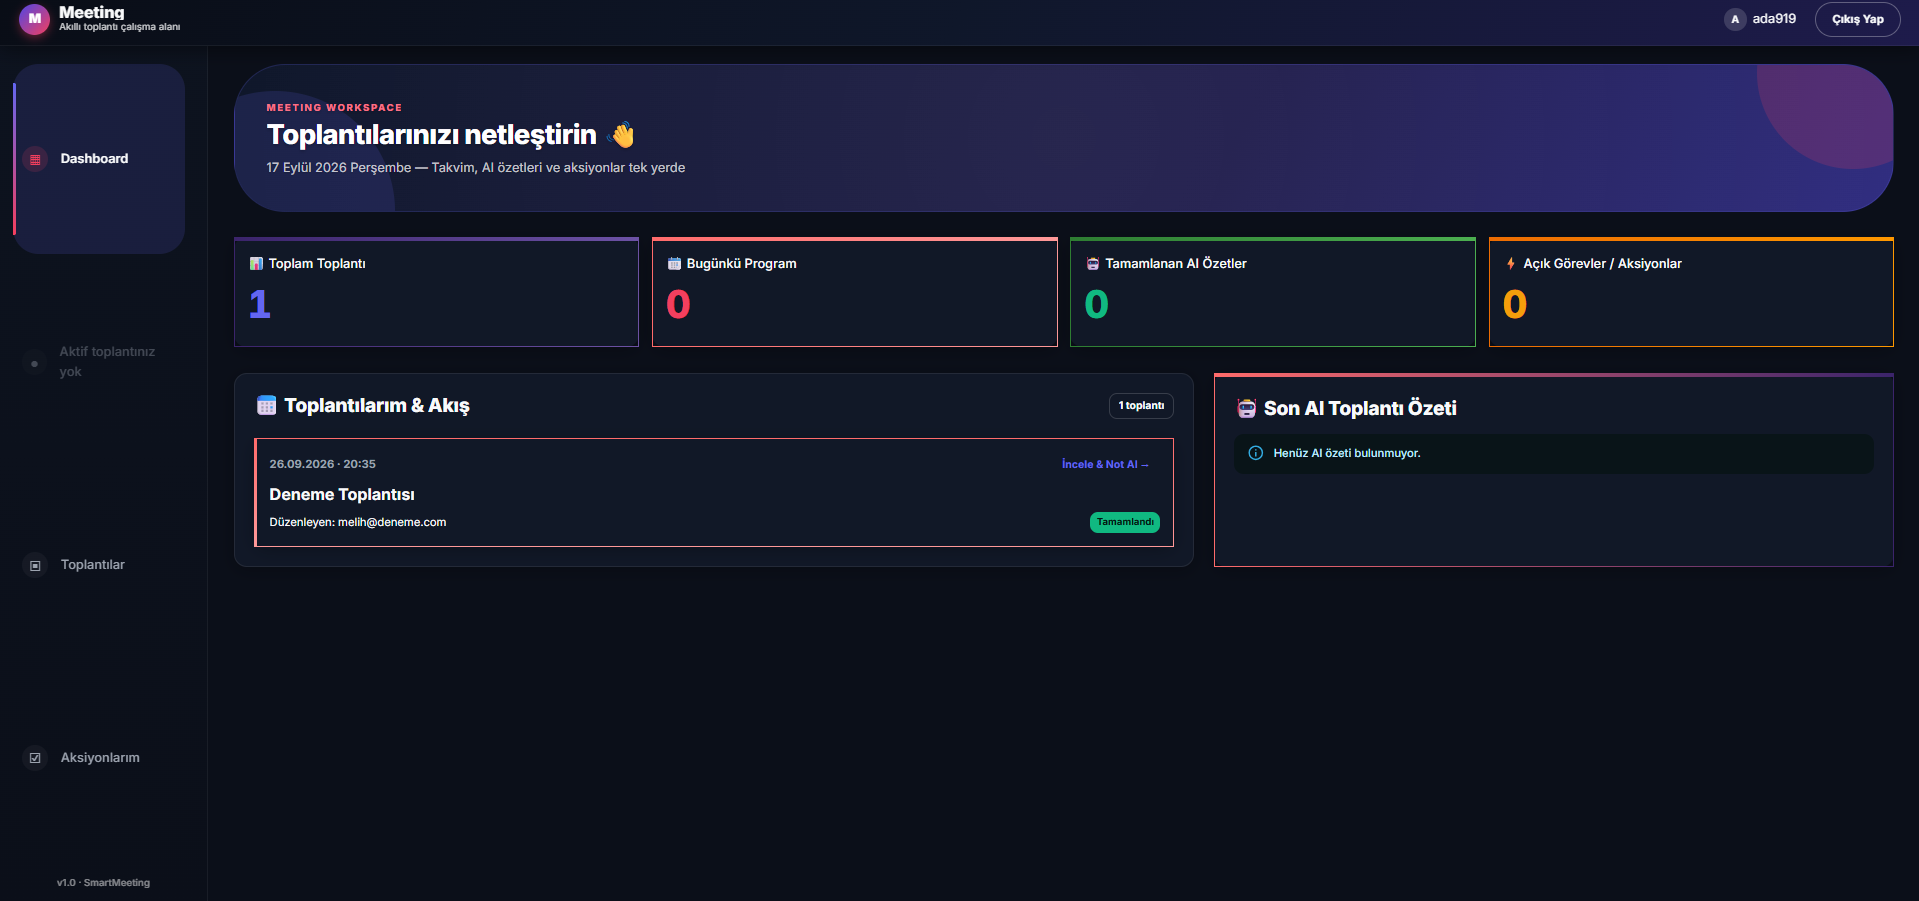
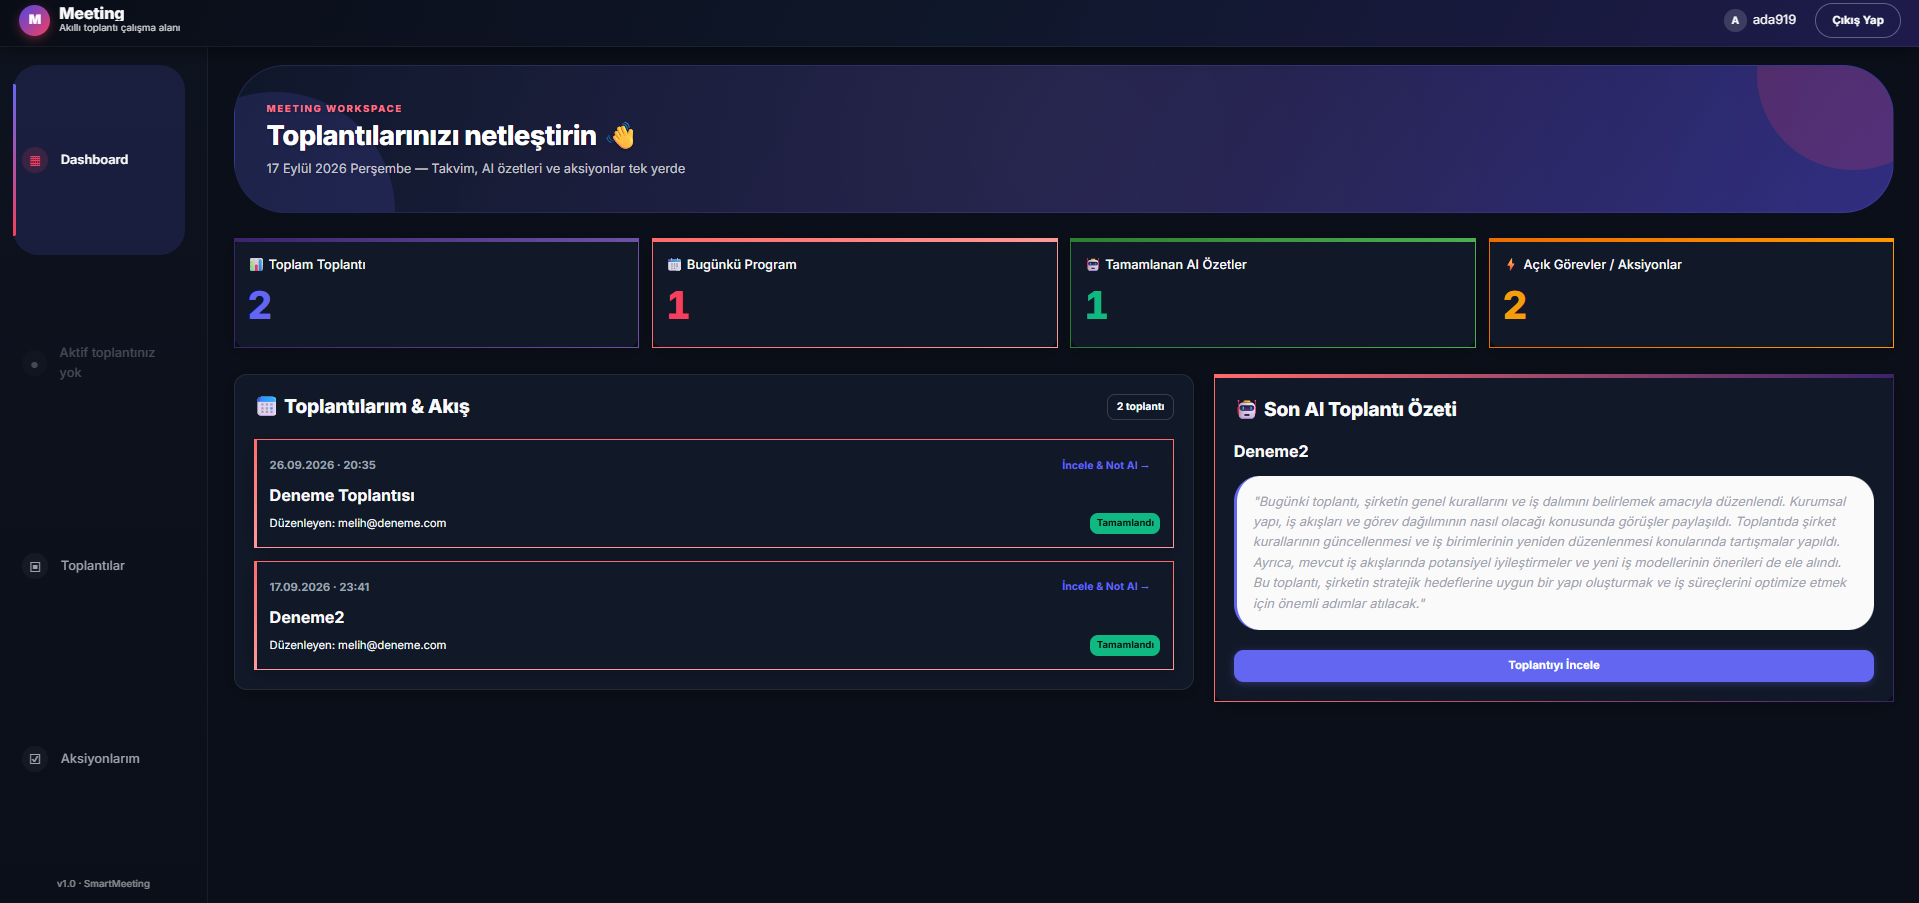
docs: refresh README screenshots and organizer display

diff --git a/web/src/features/meeting-room/MeetingDetailPage.tsx b/web/src/features/meeting-room/MeetingDetailPage.tsx
@@ -97,6 +97,7 @@ export function MeetingDetailPage({ meeting, currentUserId, canCompleteMeeting, 
   const isRoomManager = canCompleteMeeting || isOrganizer || meeting.participants.some((participant) => participant.userId === currentUserId && participant.canManageMeeting)
   const isCompleted = statusKey === '6'
   const actionParticipants: Participant[] = [{ id: meeting.id, userId: meeting.organizerId, displayName: meeting.organizerEmail ?? 'Toplantı yöneticisi', email: meeting.organizerEmail ?? 'organizer@meeting.local', canManageMeeting: true, speakerLabel: null, speakerMappingStatus: 'None' as const, speakerConfidence: null }, ...meeting.participants].filter((participant, index, all) => all.findIndex((item) => item.userId === participant.userId) === index)
+  const emailParticipants: Participant[] = [{ id: meeting.id, userId: meeting.organizerId, displayName: 'Toplantıyı kuran', email: meeting.organizerEmail ?? 'organizer@meeting.local', canManageMeeting: true, speakerLabel: null, speakerMappingStatus: 'None' as const, speakerConfidence: null }, ...meeting.participants].filter((participant, index, all) => all.findIndex((item) => item.userId === participant.userId) === index)
   return <Stack spacing={4}>
     {(!roomPresence.isInRoom || isCompleted) && <Typography variant="h3" sx={{ fontWeight: 800 }}>{meeting.title}</Typography>}
     {roomPresence.isInRoom && !isCompleted && <Card sx={{ background: 'linear-gradient(135deg, #1E1B4B 0%, #0F172A 60%, #111827 100%)', border: '1px solid rgba(99, 102, 241, 0.25)', color: 'text.primary', position: 'relative', overflow: 'hidden' }}><Box sx={{ position: 'absolute', top: -50, right: -50, width: 200, height: 200, borderRadius: '50%', background: 'radial-gradient(circle, rgba(244,63,94,0.25) 0%, rgba(99,102,241,0) 70%)', pointerEvents: 'none' }} /><CardContent sx={{ p: { xs: 2.5, md: 3 }, position: 'relative', zIndex: 1 }}><Stack direction={{ xs: 'column', md: 'row' }} sx={{ justifyContent: 'space-between', alignItems: { md: 'center' }, gap: 2.5 }}><Box><Typography variant="h4" sx={{ fontWeight: 800 }}>{meeting.title}</Typography><Typography variant="h6" sx={{ mt: 0.5, color: 'secondary.main', animation: 'sm-pulse 2s infinite' }}>Canlı toplantı ve kayıt</Typography><Typography variant="body2" sx={{ opacity: 0.8, mt: 0.5 }}>{isRoomManager ? 'Oda aktif. Ses kaydını buradan başlatabilir veya durdurabilirsiniz.' : 'Oda aktif. Toplantıyı dinleyebilir ve canlı akışı takip edebilirsiniz.'}</Typography></Box>{isRoomManager ? <Stack direction="row" spacing={2} sx={{ alignItems: 'center' }}><Chip label={recordingDuration} sx={{ color: 'white', bgcolor: 'rgba(255,255,255,0.14)', fontFamily: 'monospace', fontSize: '1.25rem', fontWeight: 700, height: 48, px: 1 }} />{recordingState === 'recording' || recordingState === 'paused' ? <><Button size="large" variant="outlined" color="secondary" disabled={recordingUploading || recordingStarting} onClick={() => window.dispatchEvent(new Event('smartmeeting-recording-pause-toggle'))} sx={{ px: 2.5, py: 1.5, fontWeight: 700 }}>{recordingState === 'recording' ? 'Kaydı duraklat' : 'Kayda devam et'}</Button><Button size="large" variant="contained" color="secondary" disabled={recordingUploading || recordingStarting} onClick={() => window.dispatchEvent(new Event('smartmeeting-recording-stop'))} sx={{ px: 2.5, py: 1.5, fontWeight: 700 }}>Kaydı bitir ve gönder</Button></> : <Button size="large" variant="contained" color="secondary" disabled={recordingUploading || recordingStarting} onClick={() => window.dispatchEvent(new Event('smartmeeting-recording-toggle'))} sx={{ px: 3, py: 1.5, fontWeight: 700 }}>{recordingStarting ? 'Hazırlanıyor…' : recordingUploading ? 'Gönderiliyor…' : 'Kaydı başlat'}</Button>}<Button size="large" color="error" variant="contained" disabled={completingMeeting || statusKey === '1' || statusKey === '2'} onClick={() => { if (window.confirm('Toplantıyı bitirmek istediğinizden emin misiniz? Bu işlemden sonra odaya tekrar girilemez.')) onCompleteMeeting(meeting.id) }}>{completingMeeting ? 'Bitiriliyor…' : 'Toplantıyı bitir'}</Button></Stack> : !isOrganizer && <Button size="large" color="error" variant="contained" disabled={roomPresence.isConnecting} onClick={() => void roomPresence.leaveRoom()}>Odadan çık</Button>}</Stack></CardContent></Card>}
@@ -151,7 +152,7 @@ export function MeetingDetailPage({ meeting, currentUserId, canCompleteMeeting, 
           ].map((panel) => <Card key={panel.key} sx={{ flex: '1 1 210px', minWidth: 190, border: activePanel === panel.key ? 2 : 1, borderColor: activePanel === panel.key ? 'primary.main' : 'divider', position: 'relative', overflow: 'hidden', transition: 'transform 0.2s ease, box-shadow 0.2s ease', '&:hover': { transform: 'translateY(-3px)', boxShadow: (theme) => theme.shadows[4] }, '&::before': { content: '""', position: 'absolute', top: 0, left: 0, right: 0, height: '4px', background: 'linear-gradient(90deg, #6366F1 0%, #F43F5E 100%)', opacity: activePanel === panel.key ? 1 : 0, transition: 'opacity 0.2s ease' } }}><CardActionArea sx={{ height: '100%' }} onClick={() => { setActivePanel(panel.key); setPanelOpen(true) }}><CardContent><Typography variant="subtitle2" color="text.secondary">{panel.label}</Typography><Typography variant="h6" sx={{ mt: 1, fontWeight: 700 }}>{panel.value}</Typography><Typography variant="caption" color="primary" sx={{ display: 'block', mt: 1, fontWeight: 600 }}>Açmak için tıkla →</Typography></CardContent></CardActionArea></Card>)}
         </Stack>
       </Stack>
-      <Stack id="meeting-recording" spacing={3} sx={{ width: { xs: '100%', lg: 440 }, maxWidth: '100%', flexShrink: 0 }}><Card sx={{ overflow: 'visible', border: 1, borderColor: 'divider', bgcolor: 'background.paper', boxShadow: (theme) => theme.shadows[8] }}><CardContent sx={{ p: { xs: 2.5, md: 3 } }}><Stack spacing={2}><Stack direction="row" sx={{ justifyContent: 'space-between', alignItems: 'center', gap: 1 }}><Typography variant="h6" sx={{ fontWeight: 800 }}>Katılımcılar ve e-posta alıcıları</Typography><Chip size="small" label={`${meeting.participants.length} kişi`} color={meeting.participants.length ? 'success' : 'default'} /></Stack><Typography variant="body2" color="text.secondary">Toplantı tamamlandığında AI özeti ve aksiyonlar aşağıdaki kişilere gönderilebilir.</Typography>{meeting.participants.length ? <Stack spacing={1.5}>{meeting.participants.map((participant) => <Stack key={participant.id} direction="row" sx={{ justifyContent: 'space-between', alignItems: 'center', gap: 1.5, p: 1.5, borderRadius: 2, bgcolor: alpha('#FFFFFF', 0.03), transition: 'background-color 0.2s', '&:hover': { bgcolor: alpha('#FFFFFF', 0.06) } }}><Avatar sx={{ width: 36, height: 36, fontSize: '1rem', bgcolor: alpha('#6366F1', 0.2), color: 'primary.light', fontWeight: 700 }}>{participant.displayName.charAt(0).toUpperCase()}</Avatar><Box sx={{ minWidth: 0, flex: 1 }}><Typography variant="body2" sx={{ fontWeight: 700, overflowWrap: 'anywhere' }}>{participant.displayName}</Typography><Typography variant="caption" color="text.secondary" sx={{ overflowWrap: 'anywhere' }}>{participant.email}</Typography></Box><Chip size="small" variant={participant.canManageMeeting ? 'filled' : 'outlined'} color={participant.canManageMeeting ? 'primary' : 'default'} label={participant.canManageMeeting ? 'Yönetici' : 'Katılımcı'} sx={{ fontWeight: 600 }} /></Stack>)}</Stack> : <Alert severity="info" sx={{ borderRadius: 2 }}>Henüz katılımcı eklenmedi.</Alert>}{isOrganizer && <Button fullWidth variant="outlined" sx={{ py: 1.5, fontWeight: 700 }} onClick={() => { setActivePanel('participants'); setPanelOpen(true) }}>Katılımcı ekle ve yetkiyi düzenle</Button>}{isRoomManager && <IconButton aria-label="Transkript ve AI özetini e-posta ile gönder" title="Transkript ve AI özetini e-posta ile gönder" color="secondary" disabled={!meeting.transcript || !meeting.summary || !meeting.participants.length || sendingEmail} onClick={() => onSendEmail(meeting.id)} sx={{ alignSelf: 'flex-end' }}>{sendingEmail ? '…' : '✉'}</IconButton>}</Stack></CardContent></Card>{roomPresence.isInRoom && isRoomManager && <AudioRecorderCard meetings={[meeting]} selectedMeetingId={meeting.id} onMeetingChange={() => undefined} onRecordingStart={onRecordingStart} onAudioReady={(audio) => onAudioReady(meeting.id, audio)} onSaveNotes={onSaveNotes} uploading={recordingUploading} starting={recordingStarting} savingNotes={savingNotes} fixedMeeting={meeting} canRecord onRecordingStateChange={setRecordingState} onRecordingDurationChange={setRecordingDuration} hideActionButton compact />}{roomPresence.isInRoom && !isRoomManager && <Card sx={{ borderRadius: 4 }}><CardContent><Stack spacing={2} sx={{ p: 2.5, borderRadius: 4, background: (theme) => `linear-gradient(${theme.palette.background.paper}, ${theme.palette.background.paper}) padding-box, linear-gradient(135deg, ${alpha(theme.palette.primary.main, 0.4)}, ${alpha(theme.palette.secondary.main, 0.4)}) border-box`, border: '2px solid transparent' }}><Typography variant="h6" sx={{ fontWeight: 800, color: 'primary.light' }}>Canlı toplantı notları</Typography><TextField fullWidth multiline minRows={5} label="Not ekle" value={participantNotes} onChange={(event) => setParticipantNotes(event.target.value)} placeholder="Toplantı sırasında önemli kararları veya bağlamı yazın..." sx={{ '& .MuiOutlinedInput-root': { borderRadius: 3 } }} /><Button variant="outlined" sx={{ borderRadius: 3, py: 1 }} onClick={() => onSaveNotes(meeting.id, participantNotes)} disabled={!participantNotes.trim() || savingNotes}>{savingNotes ? 'Not kaydediliyor…' : 'Notları kaydet'}</Button><Typography variant="caption" color="text.secondary" sx={{ display: 'block', textAlign: 'center' }}>Bu notlar STT tamamlandıktan sonra AI özetine bağlam olarak dahil edilir.</Typography></Stack></CardContent></Card>}</Stack>
+      <Stack id="meeting-recording" spacing={3} sx={{ width: { xs: '100%', lg: 440 }, maxWidth: '100%', flexShrink: 0 }}><Card sx={{ overflow: 'visible', border: 1, borderColor: 'divider', bgcolor: 'background.paper', boxShadow: (theme) => theme.shadows[8] }}><CardContent sx={{ p: { xs: 2.5, md: 3 } }}><Stack spacing={2}><Stack direction="row" sx={{ justifyContent: 'space-between', alignItems: 'center', gap: 1 }}><Typography variant="h6" sx={{ fontWeight: 800 }}>Katılımcılar ve e-posta alıcıları</Typography><Chip size="small" label={`${emailParticipants.length} kişi`} color={meeting.participants.length ? 'success' : 'default'} /></Stack><Typography variant="body2" color="text.secondary">Toplantı tamamlandığında AI özeti ve aksiyonlar aşağıdaki kişilere gönderilebilir.</Typography>{emailParticipants.length ? <Stack spacing={1.5}>{emailParticipants.map((participant) => <Stack key={participant.id} direction="row" sx={{ justifyContent: 'space-between', alignItems: 'center', gap: 1.5, p: 1.5, borderRadius: 2, bgcolor: alpha('#FFFFFF', 0.03), transition: 'background-color 0.2s', '&:hover': { bgcolor: alpha('#FFFFFF', 0.06) } }}><Avatar sx={{ width: 36, height: 36, fontSize: '1rem', bgcolor: alpha('#6366F1', 0.2), color: 'primary.light', fontWeight: 700 }}>{participant.displayName.charAt(0).toUpperCase()}</Avatar><Box sx={{ minWidth: 0, flex: 1 }}><Typography variant="body2" sx={{ fontWeight: 700, overflowWrap: 'anywhere' }}>{participant.displayName}</Typography><Typography variant="caption" color="text.secondary" sx={{ overflowWrap: 'anywhere' }}>{participant.email}</Typography></Box><Chip size="small" variant={participant.canManageMeeting ? 'filled' : 'outlined'} color={participant.canManageMeeting ? 'primary' : 'default'} label={participant.userId === meeting.organizerId ? 'Toplantıyı kuran' : 'Katılımcı'} sx={{ fontWeight: 600 }} /></Stack>)}</Stack> : <Alert severity="info" sx={{ borderRadius: 2 }}>Henüz katılımcı eklenmedi.</Alert>}{isOrganizer && <Button fullWidth variant="outlined" sx={{ py: 1.5, fontWeight: 700 }} onClick={() => { setActivePanel('participants'); setPanelOpen(true) }}>Katılımcı ekle ve yetkiyi düzenle</Button>}{isRoomManager && <IconButton aria-label="Transkript ve AI özetini e-posta ile gönder" title="Transkript ve AI özetini e-posta ile gönder" color="secondary" disabled={!meeting.transcript || !meeting.summary || !meeting.participants.length || sendingEmail} onClick={() => onSendEmail(meeting.id)} sx={{ alignSelf: 'flex-end' }}>{sendingEmail ? '…' : '✉'}</IconButton>}</Stack></CardContent></Card>{roomPresence.isInRoom && isRoomManager && <AudioRecorderCard meetings={[meeting]} selectedMeetingId={meeting.id} onMeetingChange={() => undefined} onRecordingStart={onRecordingStart} onAudioReady={(audio) => onAudioReady(meeting.id, audio)} onSaveNotes={onSaveNotes} uploading={recordingUploading} starting={recordingStarting} savingNotes={savingNotes} fixedMeeting={meeting} canRecord onRecordingStateChange={setRecordingState} onRecordingDurationChange={setRecordingDuration} hideActionButton compact />}{roomPresence.isInRoom && !isRoomManager && <Card sx={{ borderRadius: 4 }}><CardContent><Stack spacing={2} sx={{ p: 2.5, borderRadius: 4, background: (theme) => `linear-gradient(${theme.palette.background.paper}, ${theme.palette.background.paper}) padding-box, linear-gradient(135deg, ${alpha(theme.palette.primary.main, 0.4)}, ${alpha(theme.palette.secondary.main, 0.4)}) border-box`, border: '2px solid transparent' }}><Typography variant="h6" sx={{ fontWeight: 800, color: 'primary.light' }}>Canlı toplantı notları</Typography><TextField fullWidth multiline minRows={5} label="Not ekle" value={participantNotes} onChange={(event) => setParticipantNotes(event.target.value)} placeholder="Toplantı sırasında önemli kararları veya bağlamı yazın..." sx={{ '& .MuiOutlinedInput-root': { borderRadius: 3 } }} /><Button variant="outlined" sx={{ borderRadius: 3, py: 1 }} onClick={() => onSaveNotes(meeting.id, participantNotes)} disabled={!participantNotes.trim() || savingNotes}>{savingNotes ? 'Not kaydediliyor…' : 'Notları kaydet'}</Button><Typography variant="caption" color="text.secondary" sx={{ display: 'block', textAlign: 'center' }}>Bu notlar STT tamamlandıktan sonra AI özetine bağlam olarak dahil edilir.</Typography></Stack></CardContent></Card>}</Stack>
     </Stack>
     <Dialog open={panelOpen} onClose={() => setPanelOpen(false)} fullWidth maxWidth="lg" slotProps={{ paper: { sx: { borderRadius: 3, overflow: 'hidden' } } }}><DialogTitle sx={{ bgcolor: 'primary.main', color: 'primary.contrastText', pb: 2 }}>{({ status: '📊 Toplantı işlem durumu', transcript: '📝 Konuşmacılı transkript', participants: '👥 Katılımcılar ve konuşmacı eşleştirme', summary: '✨ Özet ve aksiyonlar' } as Record<typeof activePanel, string>)[activePanel]}</DialogTitle><DialogContent sx={{ pt: 3, bgcolor: 'background.default' }}>
     <Card sx={{ display: activePanel === 'status' ? 'block' : 'none', boxShadow: 2, borderRadius: 3 }}><CardContent sx={{ p: 3 }}><Stack spacing={3}><Stack direction="row" sx={{ justifyContent: 'space-between', alignItems: 'center', gap: 2 }}><Typography variant="h5" sx={{ fontWeight: 800 }}>Toplantı işlem durumu</Typography><Stack direction="row" spacing={1} sx={{ alignItems: 'center' }}><Chip label={currentStatus.label} color={currentStatus.color} sx={{ fontWeight: 700 }} />{statusKey === '4' && <Button size="small" variant="contained" color="warning" disabled={retryingProcessing} onClick={() => onRetryProcessing(meeting.id)}>{retryingProcessing ? 'Tekrar deneniyor…' : 'Yeniden işle'}</Button>}</Stack></Stack><Typography color="text.secondary">{currentStatus.message}</Typography><LinearProgress variant="determinate" value={currentStatus.progress} color={currentStatus.color === 'default' ? 'primary' : currentStatus.color} sx={{ height: 12, borderRadius: 6, bgcolor: (theme) => alpha(theme.palette[currentStatus.color === 'default' ? 'primary' : currentStatus.color].main, 0.2), '& .MuiLinearProgress-bar': { background: currentStatus.color === 'default' || currentStatus.color === 'primary' ? 'linear-gradient(90deg, #3B246B 0%, #6D52A5 100%)' : undefined, borderRadius: 6 } }} /></Stack></CardContent></Card>

diff --git a/README.md b/README.md
@@ -416,10 +416,6 @@ POST /api/meetings/{meetingId}/action-items/{actionItemId}/complete
 
 Endpoint’lerin tamamı, güncel request/response modelleri ve yetkilendirme gereksinimleri için Swagger UI’daki ilgili işlemi genişletebilirsiniz.
 
-Swagger ekran görüntüsü:
-
-![Meeting Swagger API dokümantasyonu — tüm endpointler](docs/screenshots/swagger-api.png)
-
 Swagger yalnızca Development ortamında etkinleştirilir; production ortamında API dokümantasyonu dışarıya açılmaz.
 
 ## 🔐 Güvenlik ve Veri
